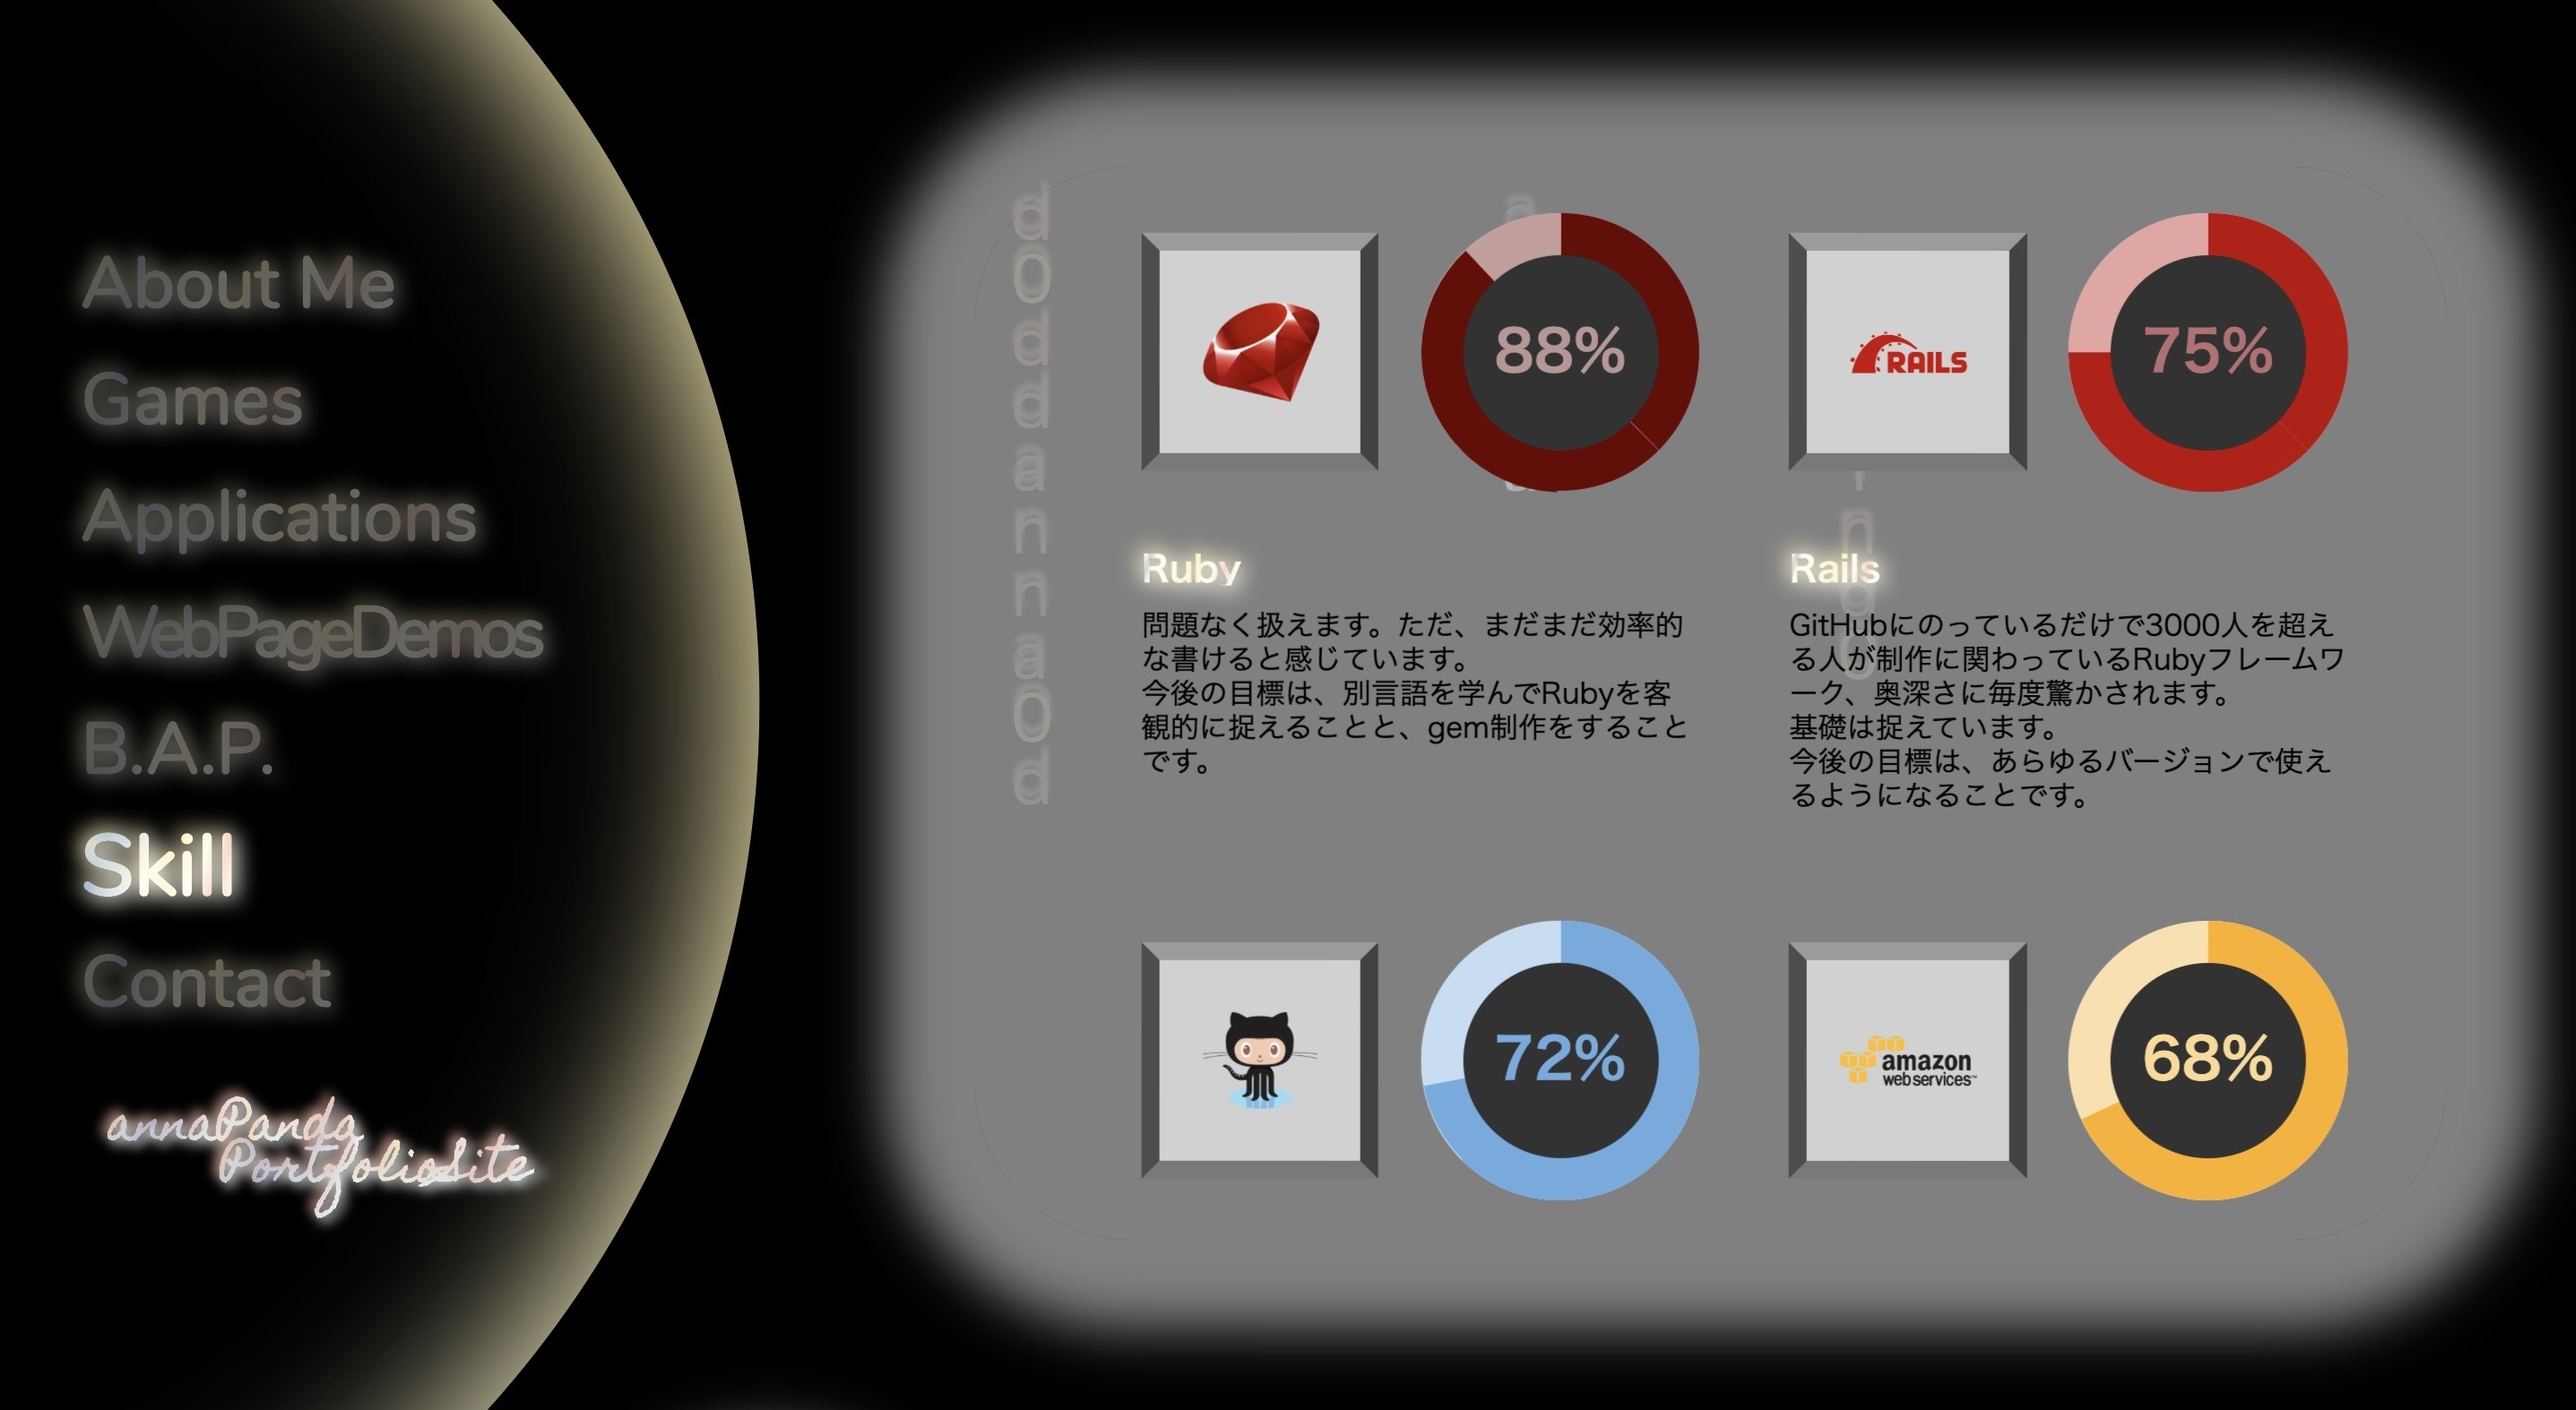
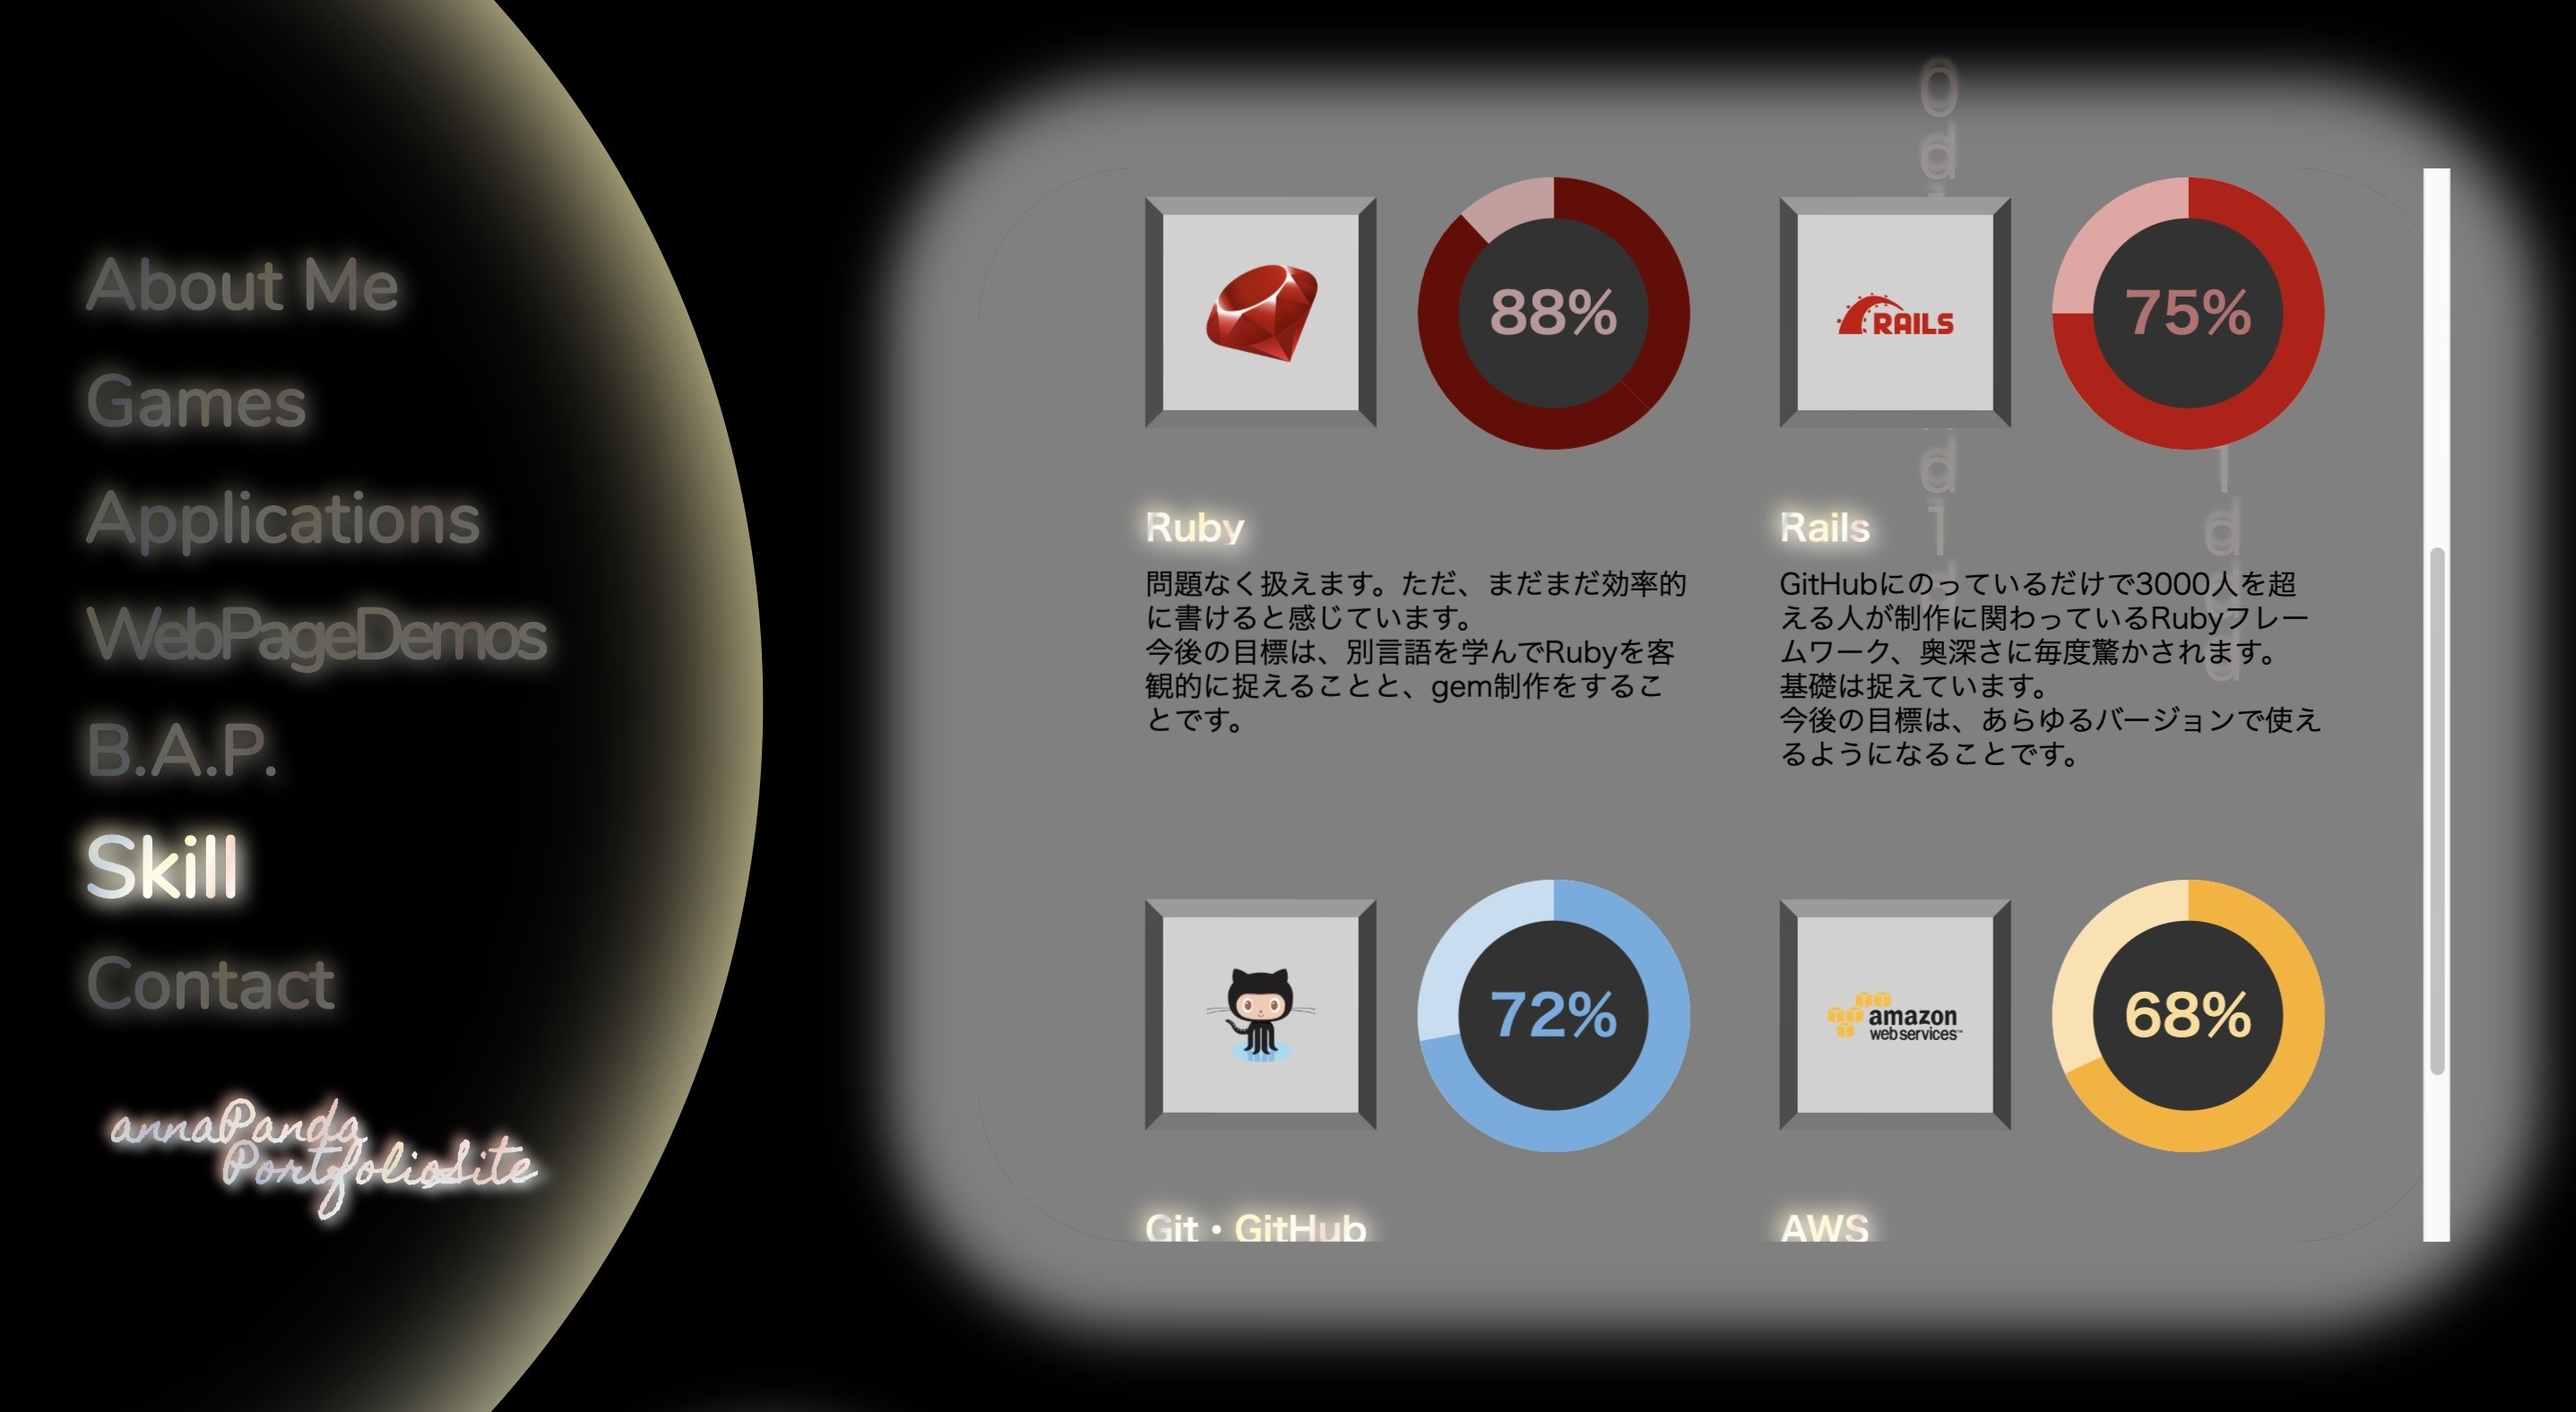
スクロール矢印復活

diff --git a/main.js b/main.js
@@ -511,7 +511,9 @@ $(function () {
           $main.stop().animate2({ transform: "rotate(" + deg + "deg)" }, 2500);
           $(".listName").stop().animate({ fontSize: "40px", opacity: ".4"}, 300);
           $("#listName" + i).stop().animate({ fontSize: "48px", opacity: "1" }, 750);
-          if ($(window).outerHeight() - 170 == $("#li" + i).outerHeight() && $("#arrow"+i).css("display", "none")) {
+          console.log($(window).outerHeight() - 170)
+          console.log($("#li" + i).outerHeight())
+          if ($(window).outerHeight() - 190 == $("#li" + i).outerHeight() && $("#arrow"+i).css("display", "none")) {
             setTimeout(function () {
               $("#arrow" + i).stop().fadeIn(800);
             }, 2500)

diff --git a/index.html b/index.html
@@ -202,7 +202,7 @@
             </div>    
             <div id="pieChart3" class="pieChart">88</div>
             <p class="skillDescription"><span>Ruby</span>
-              <br>問題なく扱えます。ただ、まだまだ効率的な書けると感じています。<br>今後の目標は、別言語を学んでRubyを客観的に捉えることと、gem制作をすることです。</p>
+              <br>問題なく扱えます。ただ、まだまだ効率的に書けると感じています。<br>今後の目標は、別言語を学んでRubyを客観的に捉えることと、gem制作をすることです。</p>
           </div>
           <div class="skillWrapper">
             <div class="skillImageWrapper">
